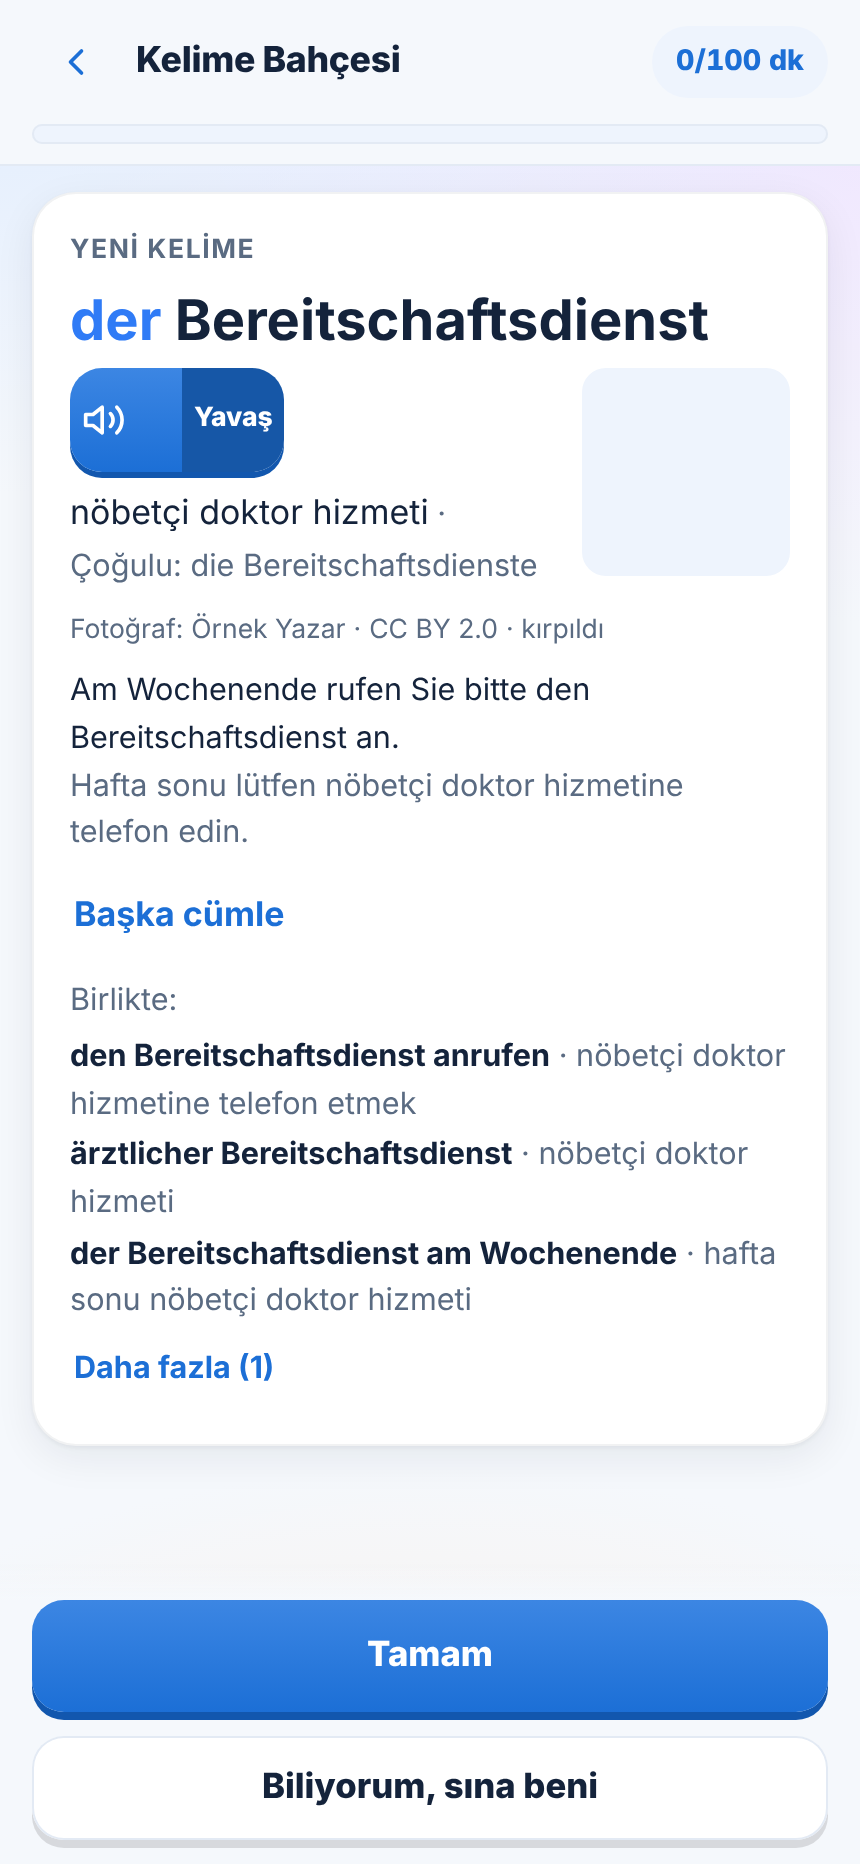
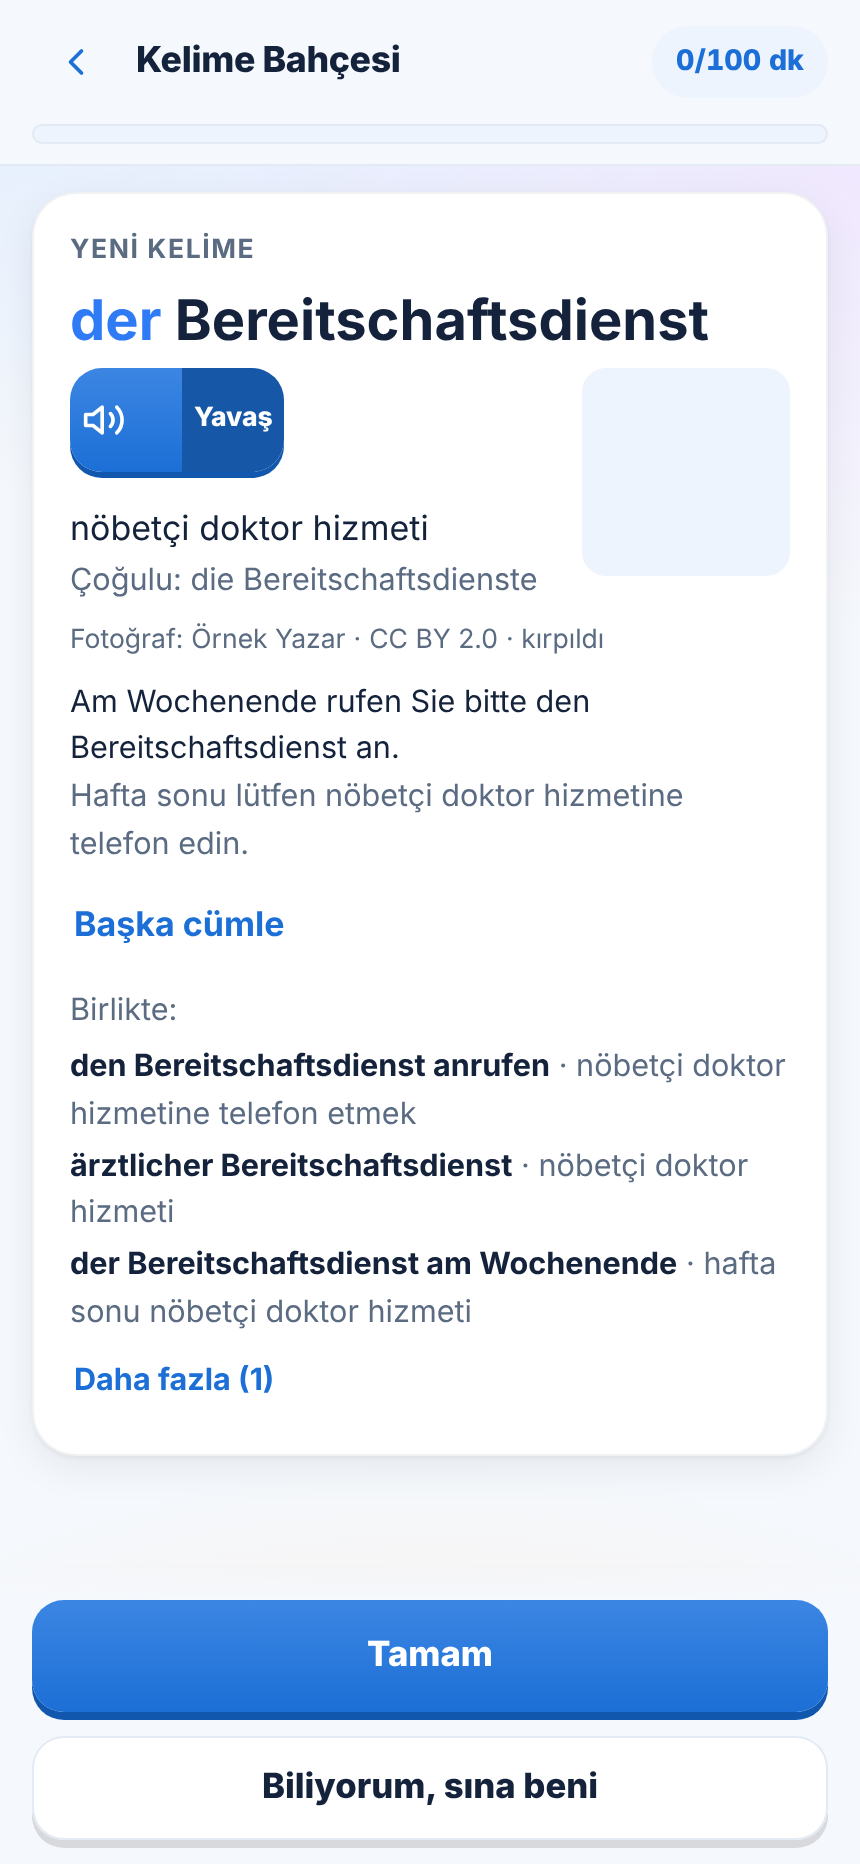
v2 (D-123): kare düzende çoğul kendi satırında, ayraç noktası yok, Almanca çoğul bölünmez (PM 7043428377)
Claude-Session: https://claude.ai/code/session_016gishG3oMjbKiLi4Fij94B

Changed region(s): [[0.0605, 0.2489, 0.907, 0.7468]]

diff --git a/web/src/screens/Garden.tsx b/web/src/screens/Garden.tsx
@@ -323,6 +323,9 @@ function Question({ q, l, all, yakin, gorulen, onDone: bitir, onSina, onCevap, o
     void document.fonts?.ready.then(sigdir);
   }, [intro, duzen, l.id]);
   const col = collocOf(l);
+  // PM 7043428377: kare düzende anlam 1. satır, çoğul kendi satırında (ayraç noktası yok, daha soluk); Almanca çoğul bölünmez
+  const anlamKare = <div class="kk-anlam"><p style={{ margin: 0 }}><span data-test="intro-tr">{l.tr}</span></p>
+    {gosterilenCogul(l) && <p class="small muted cogul-satir" data-test="intro-pl" style={{ margin: 0 }}>Çoğulu: <span lang="de" class="nowrap">{isNoun(l) ? "die " : ""}{gosterilenCogul(l)}</span></p>}</div>;
   const anlam = <p style={{ margin: 0 }}><span data-test="intro-tr">{l.tr}</span>{gosterilenCogul(l) && <span class="small muted cogul-satir" data-test="intro-pl"> · Çoğulu: <span lang="de">{isNoun(l) ? "die " : ""}{gosterilenCogul(l)}</span></span>}</p>;
   if (intro) return (
     <div class="stack fade" data-test="garden-intro" data-lex={l.id}>
@@ -341,7 +344,7 @@ function Question({ q, l, all, yakin, gorulen, onDone: bitir, onSina, onCevap, o
           : <>
             <div class="de-xl kk-baslik" lang="de" ref={baslikRef} data-test="kelime-baslik"><Art art={l.art} de={l.de} /></div>
             <div class="kelime-kare" data-test="kelime-kare">
-              <div class="kk-sol"><ListenButton text={isNoun(l) ? `${l.art} ${l.de}` : l.de} />{anlam}</div>
+              <div class="kk-sol"><ListenButton text={isNoun(l) ? `${l.art} ${l.de}` : l.de} />{anlamKare}</div>
               <Photo q={l.img} sira={q.ex} yer={[`${l.id}#kart`]} alt={l.tr} enCok={FOTO_KARE} oran="1 / 1" />
             </div>
           </>}

diff --git a/web/src/styles.css b/web/src/styles.css
@@ -703,6 +703,8 @@ html:has(.actionbar) .toast { bottom: auto; top: calc(var(--safe-top) + 12px); }
 
 /* D-123: sığmayan tanıtım kartında kelime + Dinle solda, görsel sağda kare (ayrı satır tutmaz); atıf sarılır (kesilmez: CC BY) */
 /* PM 7041856903: tanıtım başlığı (iki düzende de) tek satır, hecelenmez; sığmazsa Garden yazı boyunu 28 → 24 → 21 px küçültür */
+.nowrap { white-space: nowrap; }
+.kk-anlam > * + * { margin-top: 2px; }
 .kk-baslik { white-space: nowrap; hyphens: none; -webkit-hyphens: none; overflow: hidden; }
 .kelime-kare { display: grid; grid-template-columns: minmax(0, 1fr) 104px; gap: 12px; align-items: start; }
 .kelime-kare .kk-sol > * + * { margin-top: 8px; }

diff --git a/tests/e2e/v2_tanitim_sigar.py b/tests/e2e/v2_tanitim_sigar.py
@@ -64,7 +64,11 @@ def olc(pg):
       function baslik() { const e = k.querySelector('[data-test=kelime-baslik]'); if (!e) return { satir: 0 };
         const cs = getComputedStyle(e); const fs = parseFloat(cs.fontSize); const lh = parseFloat(cs.lineHeight) || fs * 1.15;
         return { satir: Math.round(e.getBoundingClientRect().height / lh), tasma: e.scrollWidth > e.clientWidth + 0.5, boy: Math.round(fs),
-          metin: e.innerText, hy: cs.hyphens || cs.webkitHyphens }; } }""")
+          metin: e.innerText, hy: cs.hyphens || cs.webkitHyphens, ...anlam() }; }
+      // PM 7043428377: kare düzende ayraç noktası yok; çoğulun Almanca kelimesi bölünmez
+      function anlam() { const sol = k.querySelector('.kk-sol'); if (!sol) return {};
+        const pl = sol.querySelector('[data-test=intro-pl] [lang=de]');
+        return { solMetin: sol.innerText, plParca: pl ? new Set([...pl.getClientRects()].map((r) => Math.round(r.top))).size : 0 }; } }""")
 
 
 def main():
@@ -97,6 +101,10 @@ def main():
         tasan_b = [(i, r["boy"]) for i, r in sonuc if r.get("tasma")]
         check(not tasan_b, f"başlık hiçbir kartta kesilmiyor; 21 px'te de sığmayan yok (sığmayan: {tasan_b[:6]})")
         check(all(r["hy"] == "none" for i, r in sonuc), "başlık hecelenmez (hyphens: none)")
+        nokta = [(i, r["solMetin"]) for i, r in sonuc if r["duzen"] == "kare" and "·" in r.get("solMetin", "")]
+        check(not nokta, f"kare düzende anlam ve çoğul ayrı satırda, ayraç noktası yok (noktalı: {nokta[:4]})")
+        bolunen_pl = [i for i, r in sonuc if r["duzen"] == "kare" and r.get("plParca", 0) > 1]
+        check(not bolunen_pl, f"kare düzende çoğul kelimesi bölünmüyor (bölünen: {bolunen_pl[:6]})")
         boylar = {}
         for i, r in sonuc:
             boylar.setdefault(r["boy"], []).append(i)
